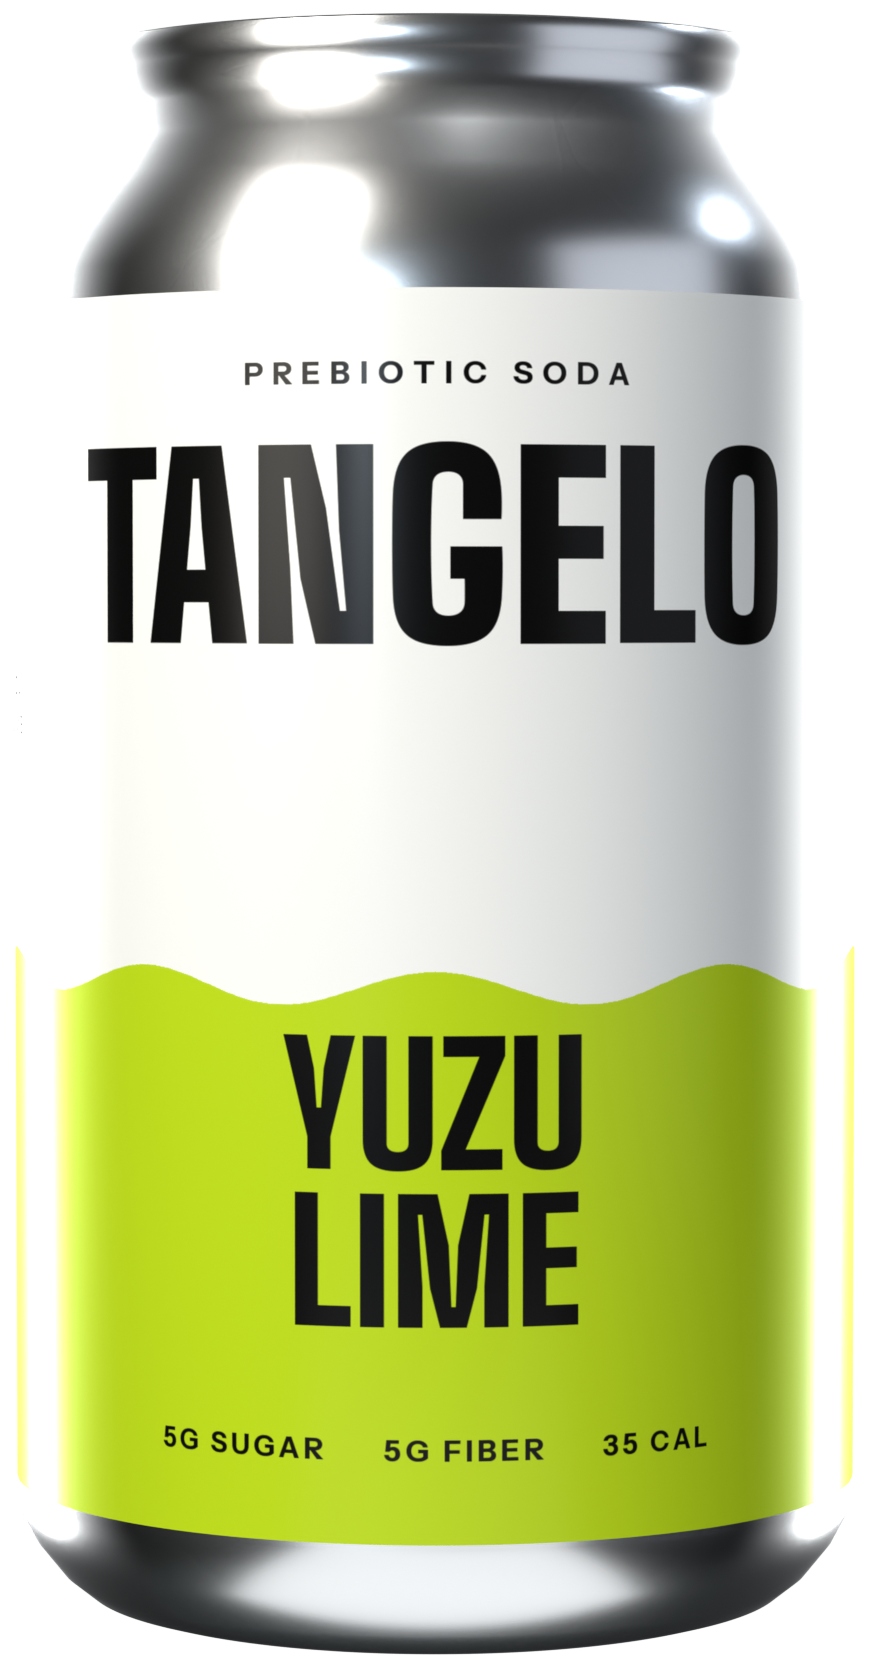
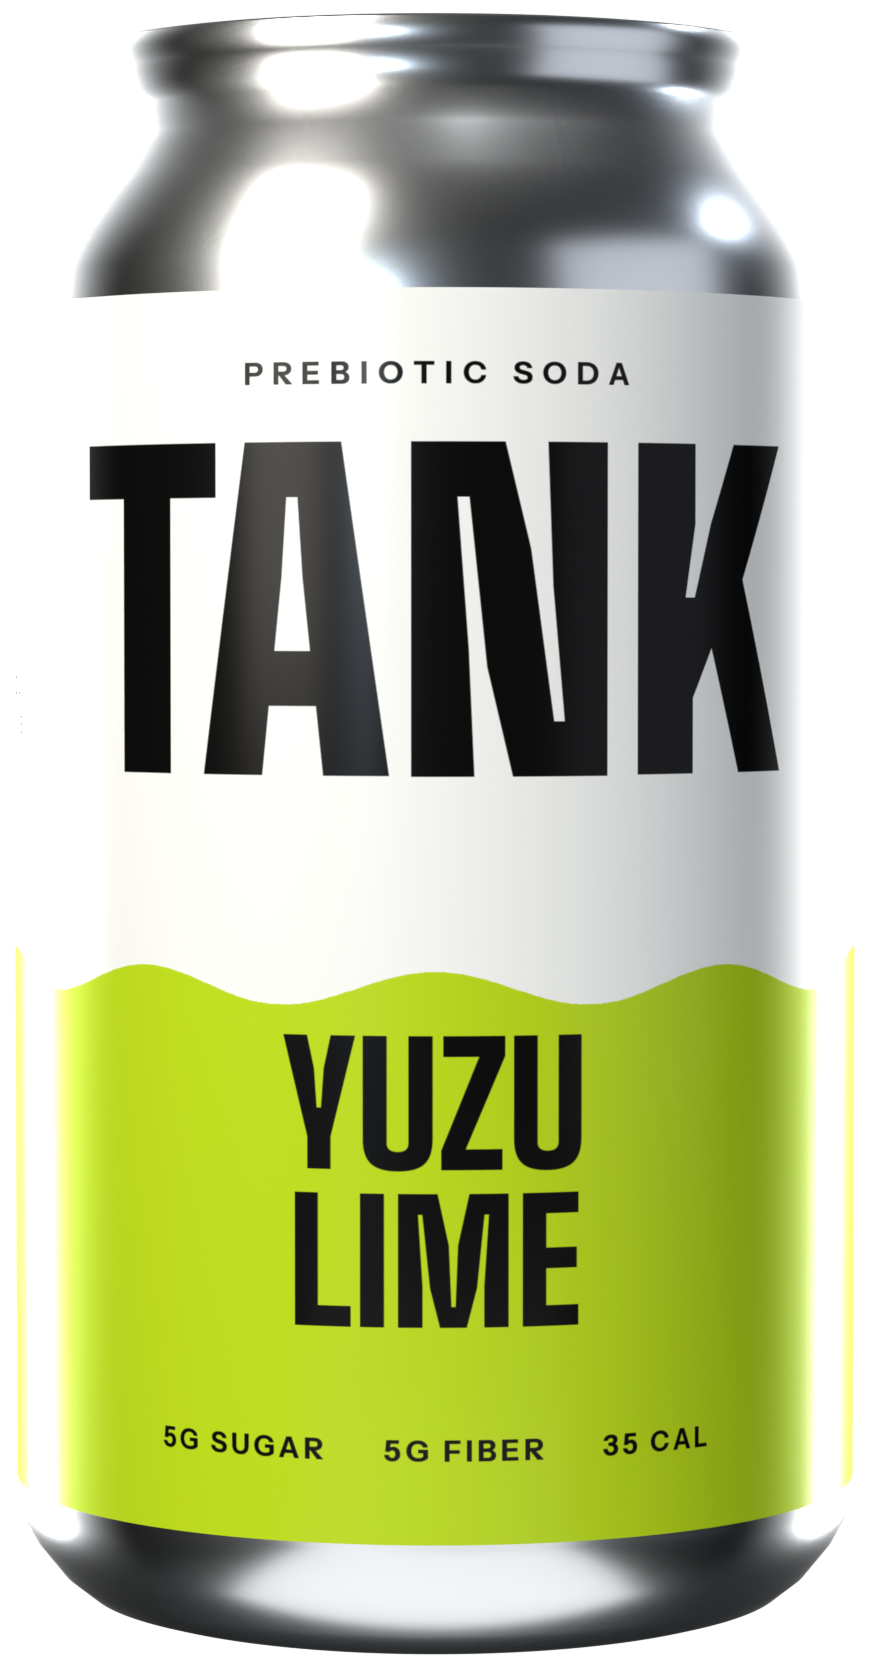
Change the demo brand to Tank on the cans, photos and copy
Re-rendered the cans, packs, flat lays, glass and merch with the new label,
repainted the label on the people photos, and renamed the brand in the demo
copy and seed data. The old glass handle stays as a legacy handle so the
store's product is renamed rather than duplicated.

Changed region(s): [[0.0931, 0.2496, 0.9, 0.4679]]

diff --git a/listing/README.md b/listing/README.md
@@ -5,7 +5,6 @@ Copy for the preset's listing form in the Partner Dashboard (Themes, then Tank, 
 ## Demo store
 
 - URL: https://tangelo-demo-0e5pc4tq.myshopify.com
-- Tangelo is the made-up soda brand on the demo store, so it appears on the cans and in the demo copy. The theme is called Tank.
 - Password: the storefront password from Online Store, then Preferences. It isn't written here because this repository is public.
 
 ## Tagline
